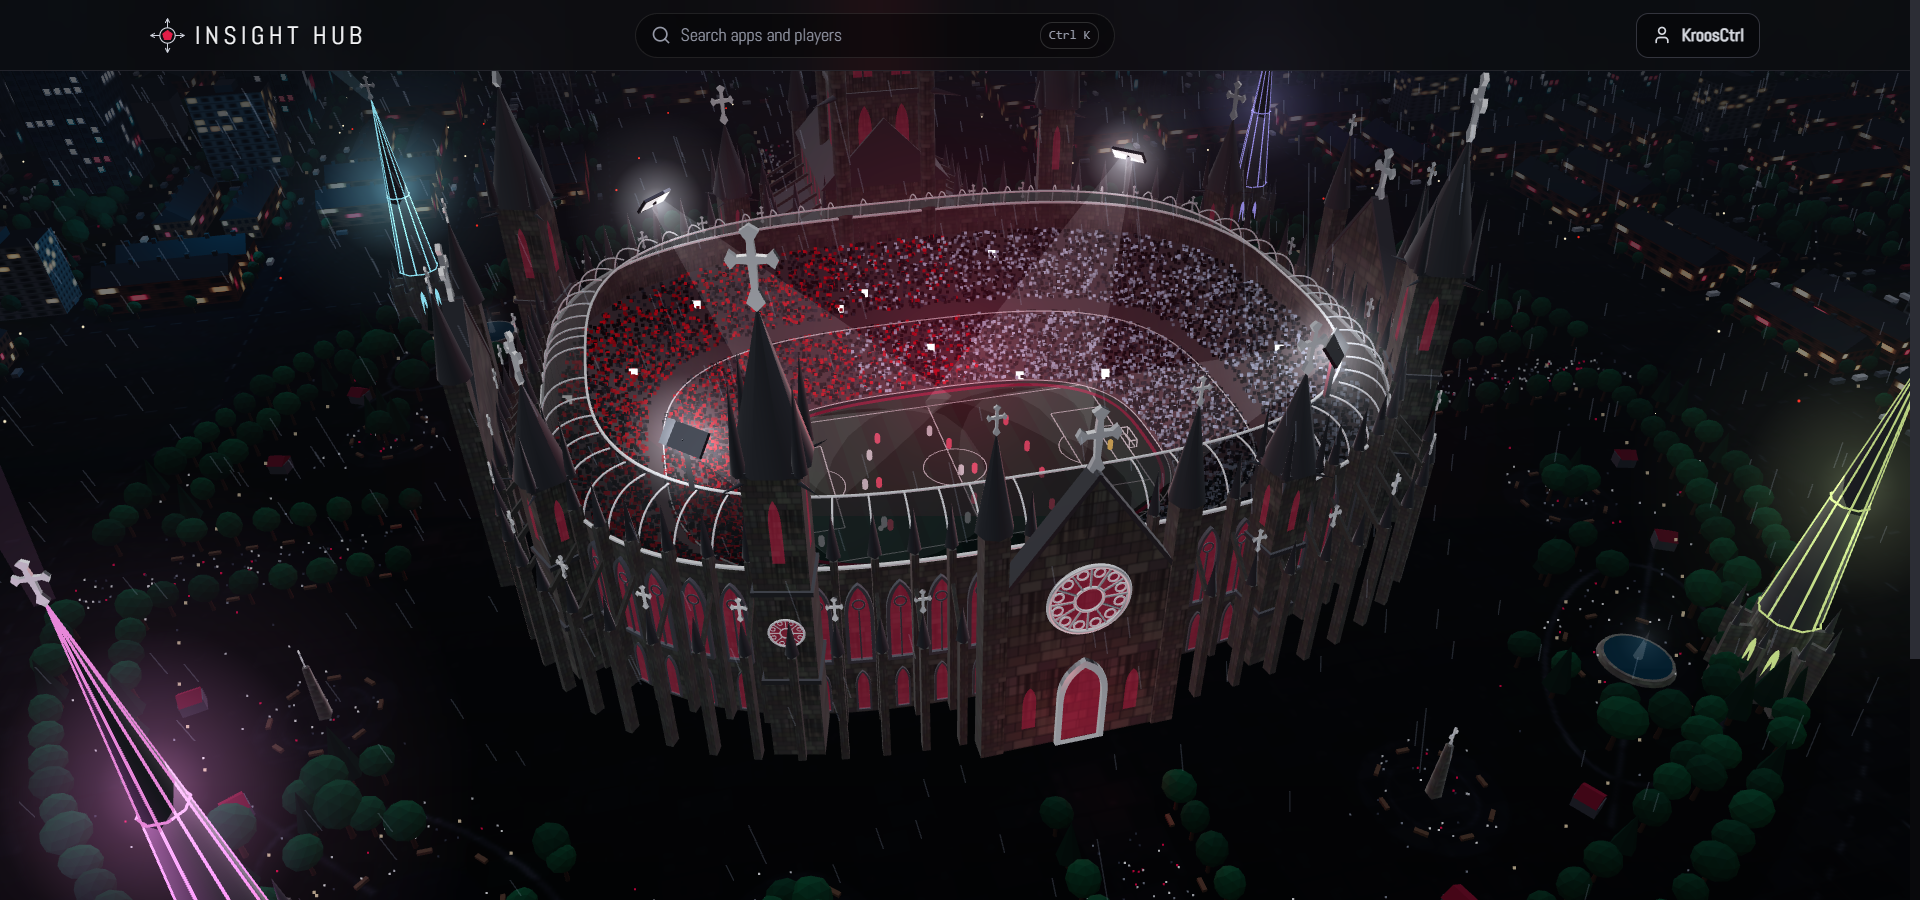
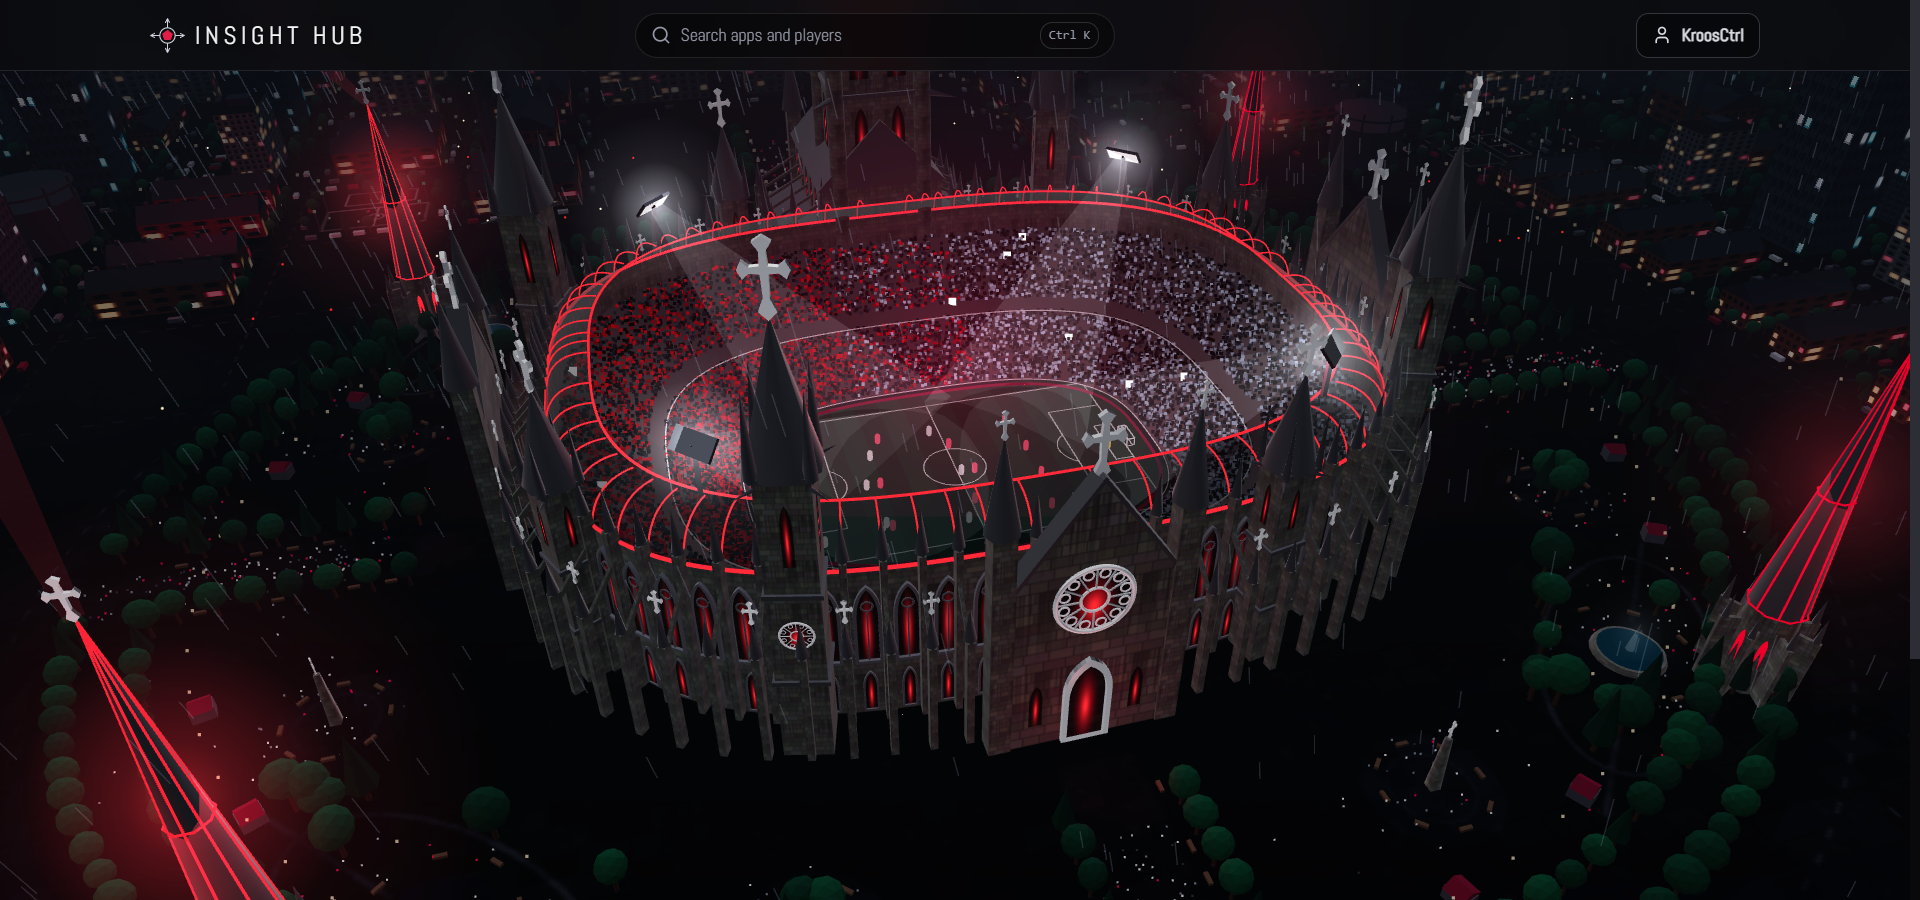
Stadium: red-only neon, neon roof trim, smoked glass windows
- Neon spires shine a single bright red instead of cycling colours
- Parapet rail, canopy ring and roof ribs are red neon tubing
- Windows are black smoked glass with a red glow burning inside

diff --git a/src/three/stadium.ts b/src/three/stadium.ts
@@ -159,13 +159,30 @@ function makeGlowTexture() {
   return new THREE.CanvasTexture(canvas);
 }
 
+const NEON_RED = 0xff1232;
+
+/** A flat pane whose UVs run 0-1 across its own bounds, so the glass shader can centre its glow on any window. */
+function glassPane(shape: THREE.Shape, segments: number) {
+  const geometry = new THREE.ShapeGeometry(shape, segments);
+  geometry.computeBoundingBox();
+  const { min, max } = geometry.boundingBox!;
+  const position = geometry.getAttribute("position");
+  const uv = geometry.getAttribute("uv");
+  for (let i = 0; i < position.count; i++) {
+    uv.setXY(i, (position.getX(i) - min.x) / (max.x - min.x), (position.getY(i) - min.y) / (max.y - min.y));
+  }
+  return geometry;
+}
+
 interface Kit {
   /** Stone with the block texture tiled `u` by `v` times across each face. */
   stone: (u: number, v: number, tint?: number) => THREE.MeshStandardMaterial;
   slate: THREE.MeshStandardMaterial;
   chrome: THREE.MeshStandardMaterial;
-  /** Stained glass, lit from inside. */
-  glass: THREE.MeshBasicMaterial;
+  /** Smoked black glass with a red glow burning behind it. `uGlow` sets how hot. */
+  glass: THREE.ShaderMaterial;
+  /** Red neon tubing. */
+  neon: THREE.MeshBasicMaterial;
   glow: THREE.CanvasTexture;
 }
 
@@ -180,7 +197,33 @@ function makeKit(): Kit {
     },
     slate: new THREE.MeshStandardMaterial({ color: 0x191c23, roughness: 0.78, metalness: 0.1, envMapIntensity: 0.25 }),
     chrome: CHROME(),
-    glass: new THREE.MeshBasicMaterial({ color: BLOOD, transparent: true, opacity: 0.6, side: THREE.DoubleSide }),
+    glass: new THREE.ShaderMaterial({
+      uniforms: { uGlow: { value: 0.8 } },
+      transparent: true,
+      side: THREE.DoubleSide,
+      vertexShader: /* glsl */ `
+        varying vec2 vUv;
+        void main() {
+          vUv = uv;
+          vec4 p = vec4(position, 1.0);
+          #ifdef USE_INSTANCING
+            p = instanceMatrix * p;
+          #endif
+          gl_Position = projectionMatrix * modelViewMatrix * p;
+        }`,
+      fragmentShader: /* glsl */ `
+        uniform float uGlow;
+        varying vec2 vUv;
+        void main() {
+          // Brightest low in the middle of the pane, falling to black glass at the edges
+          float d = length((vUv - vec2(0.5, 0.4)) * vec2(1.7, 1.0));
+          float core = smoothstep(0.62, 0.0, d);
+          vec3 color = mix(vec3(0.015, 0.0, 0.004), vec3(1.0, 0.05, 0.13), core * uGlow);
+          color += vec3(1.0, 0.4, 0.32) * pow(core, 5.0) * 0.45 * uGlow;
+          gl_FragColor = vec4(color, 0.78 + 0.22 * core);
+        }`,
+    }),
+    neon: new THREE.MeshBasicMaterial({ color: NEON_RED, fog: false }),
     glow: makeGlowTexture(),
   };
 }
@@ -247,15 +290,16 @@ function buildBowl(group: THREE.Group, kit: Kit) {
   group.add(new THREE.Mesh(canopy, new THREE.MeshStandardMaterial({ color: 0x0c0e13, transparent: true, opacity: 0.58, metalness: 0.85, roughness: 0.22, side: THREE.DoubleSide, depthWrite: false })));
 
   const concourse = STAND_START + TIER_GAP[0] * ROW_DEPTH;
-  const rails: [number, number, number][] = [
-    [WALL_OFFSET, WALL_HEIGHT, 0.5],
-    [WALL_OFFSET - CANOPY_REACH, WALL_HEIGHT + CANOPY_RISE, 0.35],
-    [STAND_START - 0.6, 1.2, 0.18],
-    [concourse, 1.4 + TIER_GAP[0] * ROW_RISE, 0.22],
+  // Pitch-side and concourse rails stay chrome; the trim along the top of the stadium is red neon
+  const rails: [number, number, number, THREE.Material][] = [
+    [WALL_OFFSET, WALL_HEIGHT, 0.5, kit.neon],
+    [WALL_OFFSET - CANOPY_REACH, WALL_HEIGHT + CANOPY_RISE, 0.35, kit.neon],
+    [STAND_START - 0.6, 1.2, 0.18, kit.chrome],
+    [concourse, 1.4 + TIER_GAP[0] * ROW_RISE, 0.22, kit.chrome],
   ];
-  for (const [offset, y, radius] of rails) {
+  for (const [offset, y, radius, material] of rails) {
     const curve = new THREE.CatmullRomCurve3(Array.from({ length: 120 }, (_, i) => ring((i / 120) * Math.PI * 2, offset, y)), true);
-    group.add(new THREE.Mesh(new THREE.TubeGeometry(curve, 360, radius, 6, true), kit.chrome));
+    group.add(new THREE.Mesh(new THREE.TubeGeometry(curve, 360, radius, 6, true), material));
   }
 }
 
@@ -266,7 +310,7 @@ function buildArcade(group: THREE.Group, kit: Kit) {
   const hole = lancet(4.6, 20.4);
   windowShape.holes.push(new THREE.Path(hole.getPoints(12).map((p) => new THREE.Vector2(p.x, p.y + 0.8))));
   const frameGeometry = new THREE.ExtrudeGeometry(windowShape, { depth: 0.9, bevelEnabled: false, curveSegments: 10 });
-  const paneGeometry = new THREE.ShapeGeometry(lancet(4.8, 21), 10);
+  const paneGeometry = glassPane(lancet(4.8, 21), 10);
 
   const dressed = new THREE.MeshStandardMaterial({ color: 0x33363d, roughness: 0.85, metalness: 0.08, envMapIntensity: 0.2 });
   const pierStone = kit.stone(0.4, 5);
@@ -303,7 +347,7 @@ function buildArcade(group: THREE.Group, kit: Kit) {
 
   // Ribs carrying the canopy
   const ribCurve = new THREE.QuadraticBezierCurve3(new THREE.Vector3(0, 0, 0), new THREE.Vector3(0, CANOPY_RISE + 1, -2), new THREE.Vector3(0, CANOPY_RISE, -CANOPY_REACH));
-  const ribs = new THREE.InstancedMesh(new THREE.TubeGeometry(ribCurve, 12, 0.24, 5), kit.chrome, bays);
+  const ribs = new THREE.InstancedMesh(new THREE.TubeGeometry(ribCurve, 12, 0.24, 5), kit.neon, bays);
 
   const step = (Math.PI * 2) / bays;
   thetas.forEach((theta, i) => {
@@ -373,7 +417,7 @@ function buildTowers(group: THREE.Group, kit: Kit): THREE.Vector3[] {
       tower.add(pinnacle);
     }
     for (const face of [0, 1, 2, 3]) {
-      const slit = new THREE.Mesh(new THREE.ShapeGeometry(lancet(width * 0.22, height * 0.2), 8), kit.glass);
+      const slit = new THREE.Mesh(glassPane(lancet(width * 0.22, height * 0.2), 8), kit.glass);
       slit.position.y = height * 0.72;
       slit.rotation.y = (face * Math.PI) / 2;
       slit.translateZ(width / 2 + 0.05);
@@ -410,12 +454,12 @@ function makePortal(kit: Kit) {
   doorFrame.holes.push(new THREE.Path(lancet(8.6, 22).getPoints(12)));
   const frame = new THREE.Mesh(new THREE.ExtrudeGeometry(doorFrame, { depth: 1.2, bevelEnabled: false, curveSegments: 10 }), kit.chrome);
   frame.position.z = 4;
-  const door = new THREE.Mesh(new THREE.ShapeGeometry(lancet(8.8, 22.4), 10), kit.glass);
+  const door = new THREE.Mesh(glassPane(lancet(8.8, 22.4), 10), kit.glass);
   door.position.set(0, 0.2, 4.1);
   portal.add(door, frame);
 
   for (const side of [-1, 1]) {
-    const niche = new THREE.Mesh(new THREE.ShapeGeometry(lancet(3, 12), 8), kit.glass);
+    const niche = new THREE.Mesh(glassPane(lancet(3, 12), 8), kit.glass);
     niche.position.set(side * 11.5, 6, 4.1);
     const turret = new THREE.Mesh(new THREE.BoxGeometry(5, 60, 5), kit.stone(0.5, 5.5));
     turret.position.set(side * 19.5, 30, 2);
@@ -470,10 +514,10 @@ function buildCathedral(group: THREE.Group, kit: Kit): THREE.Vector3[] {
 
     for (let z = 5; z < NAVE_LENGTH; z += 9.5) {
       const x = side * (naveWidth / 2 + 13.1);
-      const aisleWindow = new THREE.Mesh(new THREE.ShapeGeometry(lancet(4.6, 18), 8), kit.glass);
+      const aisleWindow = new THREE.Mesh(glassPane(lancet(4.6, 18), 8), kit.glass);
       aisleWindow.position.set(x, 5, z);
       aisleWindow.rotation.y = (side * Math.PI) / 2;
-      const clerestory = new THREE.Mesh(new THREE.ShapeGeometry(lancet(3.6, 12), 8), kit.glass);
+      const clerestory = new THREE.Mesh(glassPane(lancet(3.6, 12), 8), kit.glass);
       clerestory.position.set(side * (naveWidth / 2 + 0.1), 37, z);
       clerestory.rotation.y = (side * Math.PI) / 2;
       const buttress = new THREE.Mesh(new THREE.BoxGeometry(3.4, 34, 1.8), buttressStone);
@@ -519,9 +563,9 @@ function buildCathedral(group: THREE.Group, kit: Kit): THREE.Vector3[] {
     side.rotation.y = (face * Math.PI) / 2;
     // Paired belfry lancets, a lower pair below, and small pinnacles along the parapet
     for (const x of [-6, 6]) {
-      const belfry = new THREE.Mesh(new THREE.ShapeGeometry(lancet(6, 34), 10), kit.glass);
+      const belfry = new THREE.Mesh(glassPane(lancet(6, 34), 10), kit.glass);
       belfry.position.set(x, GREAT_TOWER_HEIGHT * 0.66, width / 2 + 0.1);
-      const lower = new THREE.Mesh(new THREE.ShapeGeometry(lancet(4.4, 20), 10), kit.glass);
+      const lower = new THREE.Mesh(glassPane(lancet(4.4, 20), 10), kit.glass);
       lower.position.set(x, GREAT_TOWER_HEIGHT * 0.44, width / 2 + 0.1);
       const mullion = new THREE.Mesh(new THREE.BoxGeometry(0.5, 30, 0.6), kit.slate);
       mullion.position.set(x, GREAT_TOWER_HEIGHT * 0.66 + 14, width / 2 + 0.3);
@@ -939,7 +983,7 @@ function weatherGround(ctx: CanvasRenderingContext2D, size: number, paved: (x: n
   }
 }
 
-const NEON = [0xff2bd6, 0x18e0ff, 0x7a3cff, 0x9dff3c].map((hex) => new THREE.Color(hex));
+const NEON = new THREE.Color(NEON_RED);
 
 interface NeonSpire {
   light: THREE.PointLight;
@@ -982,7 +1026,7 @@ function buildNeonSpire(scene: THREE.Scene, kit: Kit, base: THREE.Vector3, outwa
     fin.rotation.y = mid;
     const pinnacle = new THREE.Mesh(new THREE.ConeGeometry(0.9, 7, 4), kit.slate);
     pinnacle.position.set(Math.sin(mid) * (radius + 3.6), drumHeight * 0.8 + 3.5, Math.cos(mid) * (radius + 3.6));
-    const slit = new THREE.Mesh(new THREE.ShapeGeometry(lancet(1.6, 9), 6), tubes);
+    const slit = new THREE.Mesh(glassPane(lancet(1.6, 9), 6), tubes);
     slit.position.set(Math.sin(angle) * (radius * 1.02), 7, Math.cos(angle) * (radius * 1.02));
     slit.rotation.y = angle;
     spire.add(fin, pinnacle, slit);
@@ -1327,9 +1371,7 @@ function buildCity(scene: THREE.Scene, kit: Kit, small: boolean) {
     traffic.uniforms.uScale.value = pointScale;
     beaconMaterial.opacity = 0.35 + 0.65 * (0.5 + 0.5 * Math.sin(time * 2.2));
     for (const spire of neon) {
-      // Drift through the palette, each spire a quarter-turn apart
-      const position = Math.max(0, time * 0.035 + spire.phase) * NEON.length;
-      color.lerpColors(NEON[Math.floor(position) % NEON.length], NEON[(Math.floor(position) + 1) % NEON.length], smooth(position % 1));
+      color.copy(NEON);
       // A slow pulse (under 1 Hz, so it never strobes hard); the goal pushes it to full
       const level = Math.min(1, 0.55 + 0.45 * Math.sin(time * 4.4 + spire.phase * Math.PI * 2) + excite * 0.5);
       spire.light.color.copy(color);
@@ -1820,7 +1862,7 @@ export function setupStadium({ scene, camera, renderer, pointer }: Stage) {
     fire.uniforms.uPower.value = burn < 0.004 ? 0 : burn;
     fire.uniforms.uScale.value = pointScale;
     rain.uniforms.uTime.value = time;
-    kit.glass.opacity = 0.5 + homeJoy * 0.45 + Math.sin(time * 1.3) * 0.05;
+    kit.glass.uniforms.uGlow.value = 0.72 + homeJoy * 0.55 + Math.sin(time * 1.3) * 0.06;
     beams.opacity = 0.055 + homeJoy * 0.06;
     (bowlGlow.material as THREE.SpriteMaterial).opacity = 0.26 + homeJoy * 0.3;
     for (const ember of embers) ember.intensity = EMBER * (0.8 + homeJoy * 1.2);
